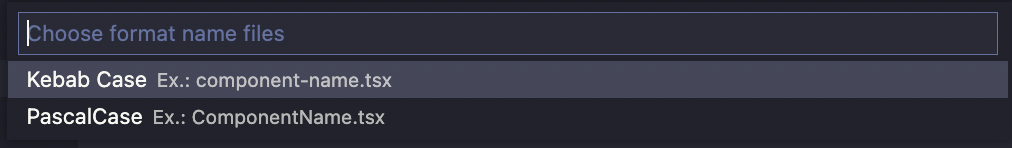
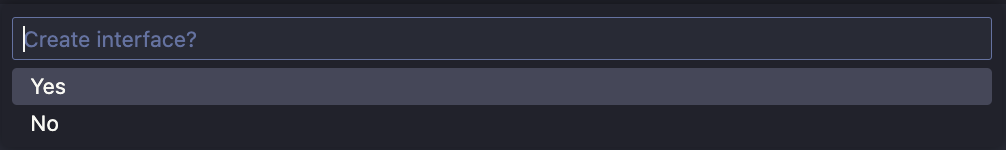
feat: create new feature of create interface for component

Changed region(s): [[0.0, 0.0811, 1.0, 0.7027], [0.0, 0.7297, 0.4006, 0.8919]]

diff --git a/src/extension.ts b/src/extension.ts
@@ -1,7 +1,7 @@
 import * as vscode from 'vscode';
 import { FormatTypesExampleEnum } from './enums';
 import { FormatNameProps, createFilesProps } from './interfaces';
-import { formateNameFile, formatNameComponent, generateFiles, generateFolder, writeFile } from './utils';
+import { formatNameFile, formatNameComponent, generateFiles, generateFolder, writeFile } from './utils';
 export function activate(context: vscode.ExtensionContext) {
 
 	function folderSelected(){
@@ -13,7 +13,7 @@ export function activate(context: vscode.ExtensionContext) {
 		return false;
 	}
 
-	let disposable = vscode.commands.registerCommand('generate-component-and-style.gc', async () => {
+	let disposable = vscode.commands.registerCommand('generate-component-for-react.gc', async () => {
 
 		async function getNameComponent(){
 			const name = await vscode.window.showInputBox({
@@ -115,61 +115,135 @@ export function activate(context: vscode.ExtensionContext) {
 			return format ? format.value : false;
 		}
 
-		async function createFiles({nameComponent, pathSelected, chooseLibrary, chooseFormatNameFiles} : createFilesProps){
-			const formatName = formateNameFile({ chosenNameFormat: chooseFormatNameFiles, nameComponent } as FormatNameProps);
-			const pathComponent = generateFolder({ pathSelected, nameComponent: formatName });
+		async function chooseWithInterface(){
+			const withInterface = await vscode.window.showQuickPick([
+				{
+					label: "Yes",
+					description: "",
+					detail: "",
+					picked: false,
+					value: true
+				},
+				{
+					label: "No",
+					description: "",
+					detail: "",
+					picked: false,
+					value: false
+				}
 
+			], {
+				placeHolder: "Create interface?"
+			}) as any;
+			return withInterface ? withInterface.value : false;
+		}
+
+		async function createFiles({nameComponent, pathSelected, chooseLibrary, chooseFormatNameFiles, chooseWithInterface} : createFilesProps){
+			const formatName = formatNameFile({ chosenNameFormat: chooseFormatNameFiles, nameComponent } as FormatNameProps);
+			const pathComponent = generateFolder({ pathSelected, nameComponent: formatName, isInterface: chooseWithInterface });
 			const formatNameFunctionComponent = formatNameComponent({nameComponent} as FormatNameProps);
 
 			const files = generateFiles({
 				nameComponent: formatName, 
 				pathComponent: pathComponent,
-				generateStyle: chooseLibrary !== "no-style"
+				generateStyle: chooseLibrary !== "no-style",
+				generateInterface: chooseWithInterface,
 			});
+
+			if(chooseWithInterface){
+				await writeFile({
+					pathFile: files.interfaceGenerated,
+					contentFile: "export interface " + formatNameFunctionComponent.nameComponent + "Props {\n\ttitle: string;\n}\n"
+				});
+
+				await writeFile({
+					pathFile: files.exportInterfaceGenerated,
+					contentFile: "export * from './" + formatName + "-props.interface';"
+				});
+			}
+					
+
 			switch(chooseLibrary){
 				case "material-ui":
 					writeFile({
 						pathFile: files.styleGenerated,
 						contentFile: "import { makeStyles } from '@mui/styles';\n\nexport default makeStyles({\n	container: {}\n});\n"
 					});
-					writeFile({
-						pathFile: files.componentGenerated,
-						contentFile: "import makeStyles from './" + formatName + "-styles'; \n\nfunction " + formatNameFunctionComponent.nameFunctionComponent + "() {\n	const classes = makeStyles();\n	return (\n		<h1 className={classes.container}>Hello World</h1>\n	);\n}\n\nexport default " + formatNameFunctionComponent.nameFunctionComponent + ";"
-					});
+					if(chooseWithInterface){
+						writeFile({
+							pathFile: files.componentGenerated,
+							contentFile: "import makeStyles from './" + formatName + "-styles'; \nimport type { " + formatNameFunctionComponent.nameComponent + "Props } from './interfaces';\n\nfunction " + formatNameFunctionComponent.nameFunctionComponent + "({title}: " + formatNameFunctionComponent.nameComponent + "Props) {\n	const classes = makeStyles();\n	return (\n		<h1 className={classes.container}>{title}</h1>\n	);\n}\n\nexport default " + formatNameFunctionComponent.nameFunctionComponent + ";"
+						});
+					} else {
+						writeFile({
+							pathFile: files.componentGenerated,
+							contentFile: "import makeStyles from './" + formatName + "-styles'; \n\nfunction " + formatNameFunctionComponent.nameFunctionComponent + "() {\n	const classes = makeStyles();\n	return (\n		<h1 className={classes.container}>Hello World</h1>\n	);\n}\n\nexport default " + formatNameFunctionComponent.nameFunctionComponent + ";"
+						});
+					}
 					break;
 				case "styled-components":
 					writeFile({
 						pathFile: files.styleGenerated,
 						contentFile: "import styled from 'styled-components';\n\nexport const Container = styled.div``;\n"
 					});
-					writeFile({
-						pathFile: files.componentGenerated,
-						contentFile: "import { Container } from './" + formatName + "-styles'; \n\nfunction " + formatNameFunctionComponent.nameFunctionComponent + "() {\n	return (\n		<Container>Hello World</Container>\n	);\n}\n\nexport default " + formatNameFunctionComponent.nameFunctionComponent + ";"
-					});
+
+					if(chooseWithInterface){
+						writeFile({
+							pathFile: files.componentGenerated,
+							contentFile: "import { Container } from './" + formatName + "-styles'; \nimport type { " + formatNameFunctionComponent.nameComponent + "Props } from './interfaces';\n\nfunction " + formatNameFunctionComponent.nameFunctionComponent + "({title}: " + formatNameFunctionComponent.nameComponent + "Props) {\n	return (\n		<Container>Hello World</Container>\n	);\n}\n\nexport default " + formatNameFunctionComponent.nameFunctionComponent + ";"
+						});
+					} else {
+						writeFile({
+							pathFile: files.componentGenerated,
+							contentFile: "import { Container } from './" + formatName + "-styles'; \n\nfunction " + formatNameFunctionComponent.nameFunctionComponent + "() {\n	return (\n		<Container>Hello World</Container>\n	);\n}\n\nexport default " + formatNameFunctionComponent.nameFunctionComponent + ";"
+						});
+					}
 					break;
 				case "no-library":
 					writeFile({
 						pathFile: files.styleGenerated,
 						contentFile: "export const container = {};\n"
 					});
-					writeFile({
-						pathFile: files.componentGenerated,
-						contentFile: "import { container } from './" + formatName + "-styles'; \n\nfunction " + formatNameFunctionComponent.nameFunctionComponent + "() {\n	return (\n		<div className={container}>Hello World</div>\n	);\n}\n\nexport default " + formatNameFunctionComponent.nameFunctionComponent + ";"
-					});
+
+					if(chooseWithInterface){
+						writeFile({
+							pathFile: files.componentGenerated,
+							contentFile: "import { container } from './" + formatName + "-styles'; \nimport { " + formatNameFunctionComponent.nameComponent + "Props } from './interfaces';\n\nfunction " + formatNameFunctionComponent.nameFunctionComponent + "({title}: " + formatNameFunctionComponent.nameComponent + "Props) {\n	return (\n		<div className={container}>Hello World</div>\n	);\n}\n\nexport default " + formatNameFunctionComponent.nameFunctionComponent + ";"
+						});
+					} else {
+						writeFile({
+							pathFile: files.componentGenerated,
+							contentFile: "import { container } from './" + formatName + "-styles'; \n\nfunction " + formatNameFunctionComponent.nameFunctionComponent + "() {\n	return (\n		<div className={container}>Hello World</div>\n	);\n}\n\nexport default " + formatNameFunctionComponent.nameFunctionComponent + ";"
+						});
+					}
 					break;
 				case "no-style":
-					writeFile({
-						pathFile: files.componentGenerated,
-						contentFile: "function " + formatNameFunctionComponent.nameFunctionComponent + "() {\n	return (\n		<h1>Hello World</h1>\n	);\n}\n\nexport default " + formatNameFunctionComponent.nameFunctionComponent + ";"
-					});
+					if(chooseWithInterface){
+						writeFile({
+							pathFile: files.componentGenerated,
+							contentFile: "import type { " + formatNameFunctionComponent.nameComponent + "Props } from './interfaces';\n\nfunction " + formatNameFunctionComponent.nameFunctionComponent + "({title}: " + formatNameFunctionComponent.nameComponent + "Props) {\n	return (\n		<h1>Hello World</h1>\n	);\n}\n\nexport default " + formatNameFunctionComponent.nameFunctionComponent + ";"
+						});
+					} else {
+						writeFile({
+							pathFile: files.componentGenerated,
+							contentFile: "function " + formatNameFunctionComponent.nameFunctionComponent + "() {\n	return (\n		<h1>Hello World</h1>\n	);\n}\n\nexport default " + formatNameFunctionComponent.nameFunctionComponent + ";"
+						});
+					}
 					break;
 			}
 
-			writeFile({
-				pathFile: files.testGenerated,
-				contentFile: "import { render } from '@testing-library/react';\nimport " + formatNameFunctionComponent.nameFunctionComponent + " from './" + formatName + "';\n\nconst makeSut = () => render(<" + formatNameFunctionComponent.nameFunctionComponent + " />);\n\ndescribe('" + formatNameFunctionComponent.nameFunctionComponent + "', () => {\n	test('should render', () => {\n		makeSut();\n	});\n});\n"
-			});
-			
+			if(chooseWithInterface){
+				writeFile({
+					pathFile: files.testGenerated,
+					contentFile: "import { render } from '@testing-library/react';\nimport " + formatNameFunctionComponent.nameFunctionComponent + " from './" + formatName + "';\n\nconst makeSut = () => render(<" + formatNameFunctionComponent.nameFunctionComponent + " title='Hello World' />);\n\ndescribe('" + formatNameFunctionComponent.nameFunctionComponent + "', () => {\n	test('should render', () => {\n		makeSut();\n	});\n});\n"
+				});
+			} else {
+				writeFile({
+					pathFile: files.testGenerated,
+					contentFile: "import { render } from '@testing-library/react';\nimport " + formatNameFunctionComponent.nameFunctionComponent + " from './" + formatName + "';\n\nconst makeSut = () => render(<" + formatNameFunctionComponent.nameFunctionComponent + " />);\n\ndescribe('" + formatNameFunctionComponent.nameFunctionComponent + "', () => {\n	test('should render', () => {\n		makeSut();\n	});\n});\n"
+				});
+			}
+
 			writeFile({
 				pathFile: files.exportComponentGenerated,
 				contentFile: "export { default as " + formatNameFunctionComponent.nameComponentExport + " } from './" + formatName + "';"
@@ -185,13 +259,15 @@ export function activate(context: vscode.ExtensionContext) {
 		const nameComponent = await getNameComponent();
 		const pathSelected = await getSelectedPath();
 		const library = await chooseLibrary();
+		const withInterface = await chooseWithInterface();
 
 		const formatNameFiles = await chooseFormatNameFiles();
 		createFiles({
 			nameComponent,
 			pathSelected,
 			chooseLibrary: library,
-			chooseFormatNameFiles: formatNameFiles
+			chooseFormatNameFiles: formatNameFiles,
+			chooseWithInterface: withInterface,
 		});
 		
 	});

diff --git a/src/utils/generate-files.util.ts b/src/utils/generate-files.util.ts
@@ -5,9 +5,10 @@ interface GenerateFilesPros{
   pathComponent: string;
   nameComponent: string;
   generateStyle: boolean;
+  generateInterface: boolean;
 }
 
-export const generateFiles = ({pathComponent, nameComponent, generateStyle}: GenerateFilesPros) => {
+export const generateFiles = ({pathComponent, nameComponent, generateStyle, generateInterface}: GenerateFilesPros) => {
   const fs = require('fs');
 	const path = require('path');
 
@@ -15,12 +16,16 @@ export const generateFiles = ({pathComponent, nameComponent, generateStyle}: Gen
   const generateFileTest = path.join(pathComponent, nameComponent + '.spec.tsx');
   const generateFileStyle = generateStyle && path.join(pathComponent, nameComponent + '-styles.ts');
   const generateFileExportComponent = path.join(pathComponent, 'index.ts');
+  const generateFileInterface = generateInterface && path.join(pathComponent, 'interfaces', nameComponent + '-props.interface.ts');
+  const generateFileExportInterface = generateInterface && path.join(pathComponent, 'interfaces', 'index.ts');
 
   return {
     componentGenerated: generateFileComponent,
     testGenerated: generateFileTest,
     styleGenerated: generateFileStyle,
-    exportComponentGenerated: generateFileExportComponent
+    exportComponentGenerated: generateFileExportComponent,
+    interfaceGenerated: generateFileInterface,
+    exportInterfaceGenerated: generateFileExportInterface
   }
 
 };

diff --git a/src/utils/generate-folder.util.ts b/src/utils/generate-folder.util.ts
@@ -1,15 +1,21 @@
 interface GenerateFolderPros{
   pathSelected: string | false;
   nameComponent: string | false;
+  isInterface: boolean;
 }
 
-export const generateFolder = ({pathSelected, nameComponent}: GenerateFolderPros) => {
+export const generateFolder = ({pathSelected, nameComponent, isInterface}: GenerateFolderPros) => {
   const fs = require('fs');
 	const path = require('path');
 
   const pathComponent = path.join(pathSelected, nameComponent);
   if(!fs.existsSync(pathComponent)){
     fs.mkdirSync(pathComponent);
+    
+    if(isInterface){
+      const pathInterface = path.join(pathComponent, 'interfaces');
+      fs.mkdirSync(pathInterface);
+    }
   }
   return pathComponent;
 };

diff --git a/src/utils/format-name-file.util.ts b/src/utils/format-name-file.util.ts
@@ -1,7 +1,7 @@
 import { ReplaceEnum } from "../enums";
 import { FormatNameProps } from "../interfaces";
 
-export const formateNameFile = ({chosenNameFormat, nameComponent}: FormatNameProps) => {
+export const formatNameFile = ({chosenNameFormat, nameComponent}: FormatNameProps) => {
   let formattedComponentFile = nameComponent;
   switch (chosenNameFormat) {
     case 'pascalCase':

diff --git a/src/interfaces/create-files-props.interface.ts b/src/interfaces/create-files-props.interface.ts
@@ -2,5 +2,6 @@ export interface createFilesProps {
   nameComponent: string | false, 
   pathSelected: string | false,
   chooseLibrary: string | false,
-  chooseFormatNameFiles: string | false
+  chooseFormatNameFiles: string | false,
+  chooseWithInterface: boolean
 }

diff --git a/src/utils/format-component-name.util.ts b/src/utils/format-component-name.util.ts
@@ -13,5 +13,6 @@ export const formatNameComponent = ({
   return {
     nameFunctionComponent: nameComponentInFunction + 'Component',
     nameComponentExport: nameComponentInFunction + 'Tag',
+    nameComponent: nameComponentInFunction,
   }
 }
